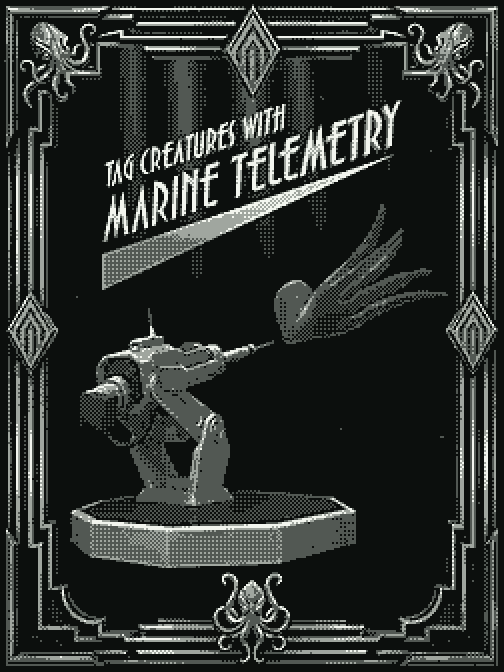
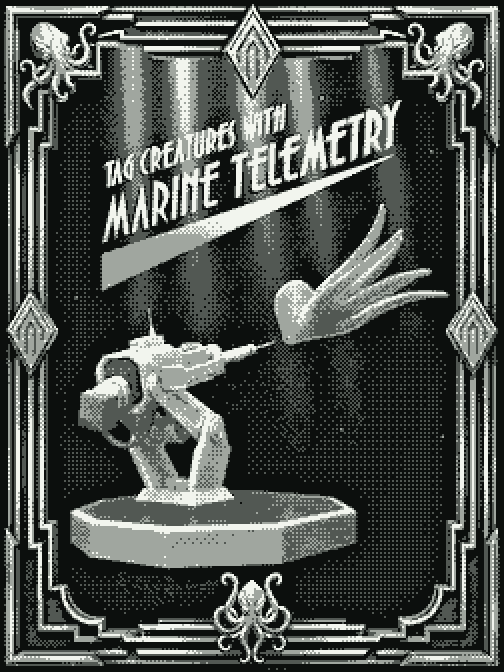
Deep Contact: posters for the three base pop-ups
Claude-Session: https://claude.ai/code/session_011tPBAXL9S45m7bkyd274RR

diff --git a/deepcontact/index.html b/deepcontact/index.html
@@ -320,17 +320,17 @@ html.win-open{overflow:hidden}
      ==================================================================================== -->
 <template id="file-base-1" data-bar="Aquarius Research Base // Reconnaissance">
   <h3>Reconnaissance</h3>
-  <div class="cols"><div class="slot"><img src="dc-poster-base.png" alt="Poster: Aquarius Base, a modern Atlantis"></div>
+  <div class="cols"><div class="slot"><img src="dc-poster-zones.png" width="504" height="672" alt="Poster: Dive deep into the mesopelagic zone"></div>
   <div class="text"><p>Scientists pilot a remotely operated sub (ROV) across the seafloor here, searching for tool fragments thought to have been made by an intelligent species of octopus.</p></div></div>
 </template>
 <template id="file-base-2" data-bar="Aquarius Research Base // Symbology">
   <h3>Symbology</h3>
-  <div class="cols"><div class="slot"><span>Image 3:4</span></div>
+  <div class="cols"><div class="slot"><img src="dc-poster-language.png" width="504" height="672" alt="Poster: If the ocean spoke, what would it say?"></div>
   <div class="text"><p>Ongoing research suggests that symbols found throughout nearshore environments and caves are part of a visual language for a specific species of octopus. Scientists are working to decode their meaning.</p></div></div>
 </template>
 <template id="file-base-3" data-bar="Aquarius Research Base // Telemetry">
   <h3>Telemetry</h3>
-  <div class="cols"><div class="slot"><span>Image 3:4</span></div>
+  <div class="cols"><div class="slot"><img src="dc-poster-telemetry.png" width="504" height="672" alt="Poster: Tag creatures with marine telemetry"></div>
   <div class="text"><p>Researchers here tag marine animals with Thallas sensors whose pings show their movements, feeding and social behaviour, and they now aim to tag the octopus itself.</p></div></div>
 </template>
 <template id="file-sub-1" data-bar="Equipment // Submersible // Hydrophone Sonar Array">
